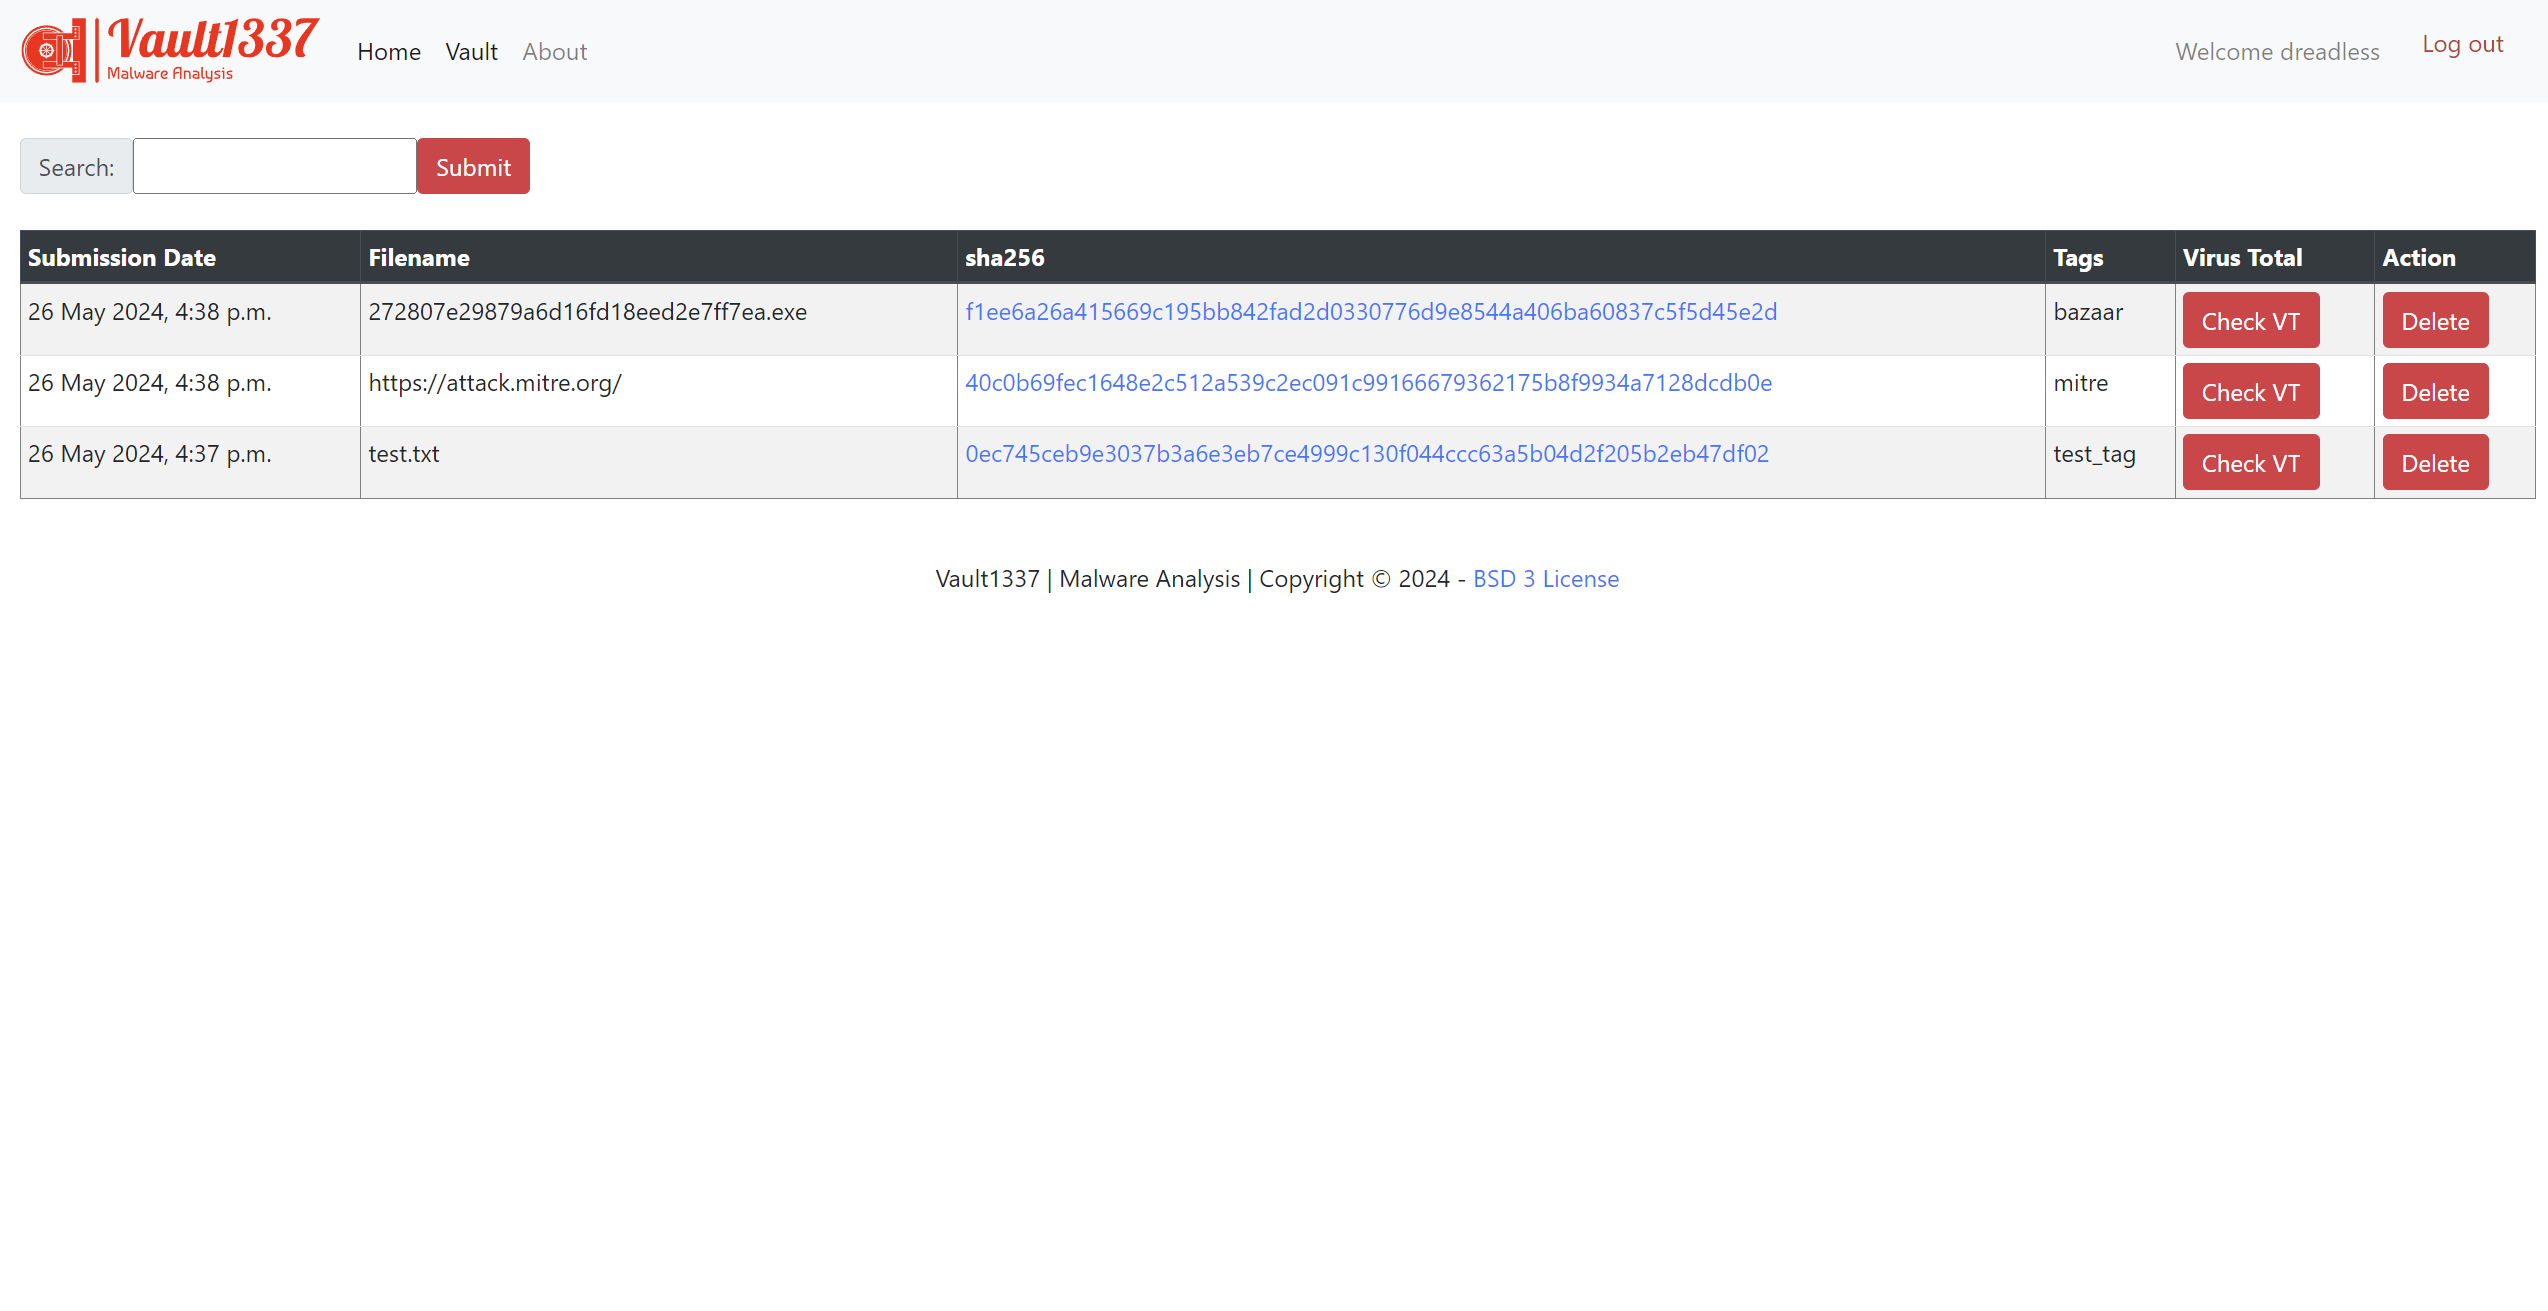
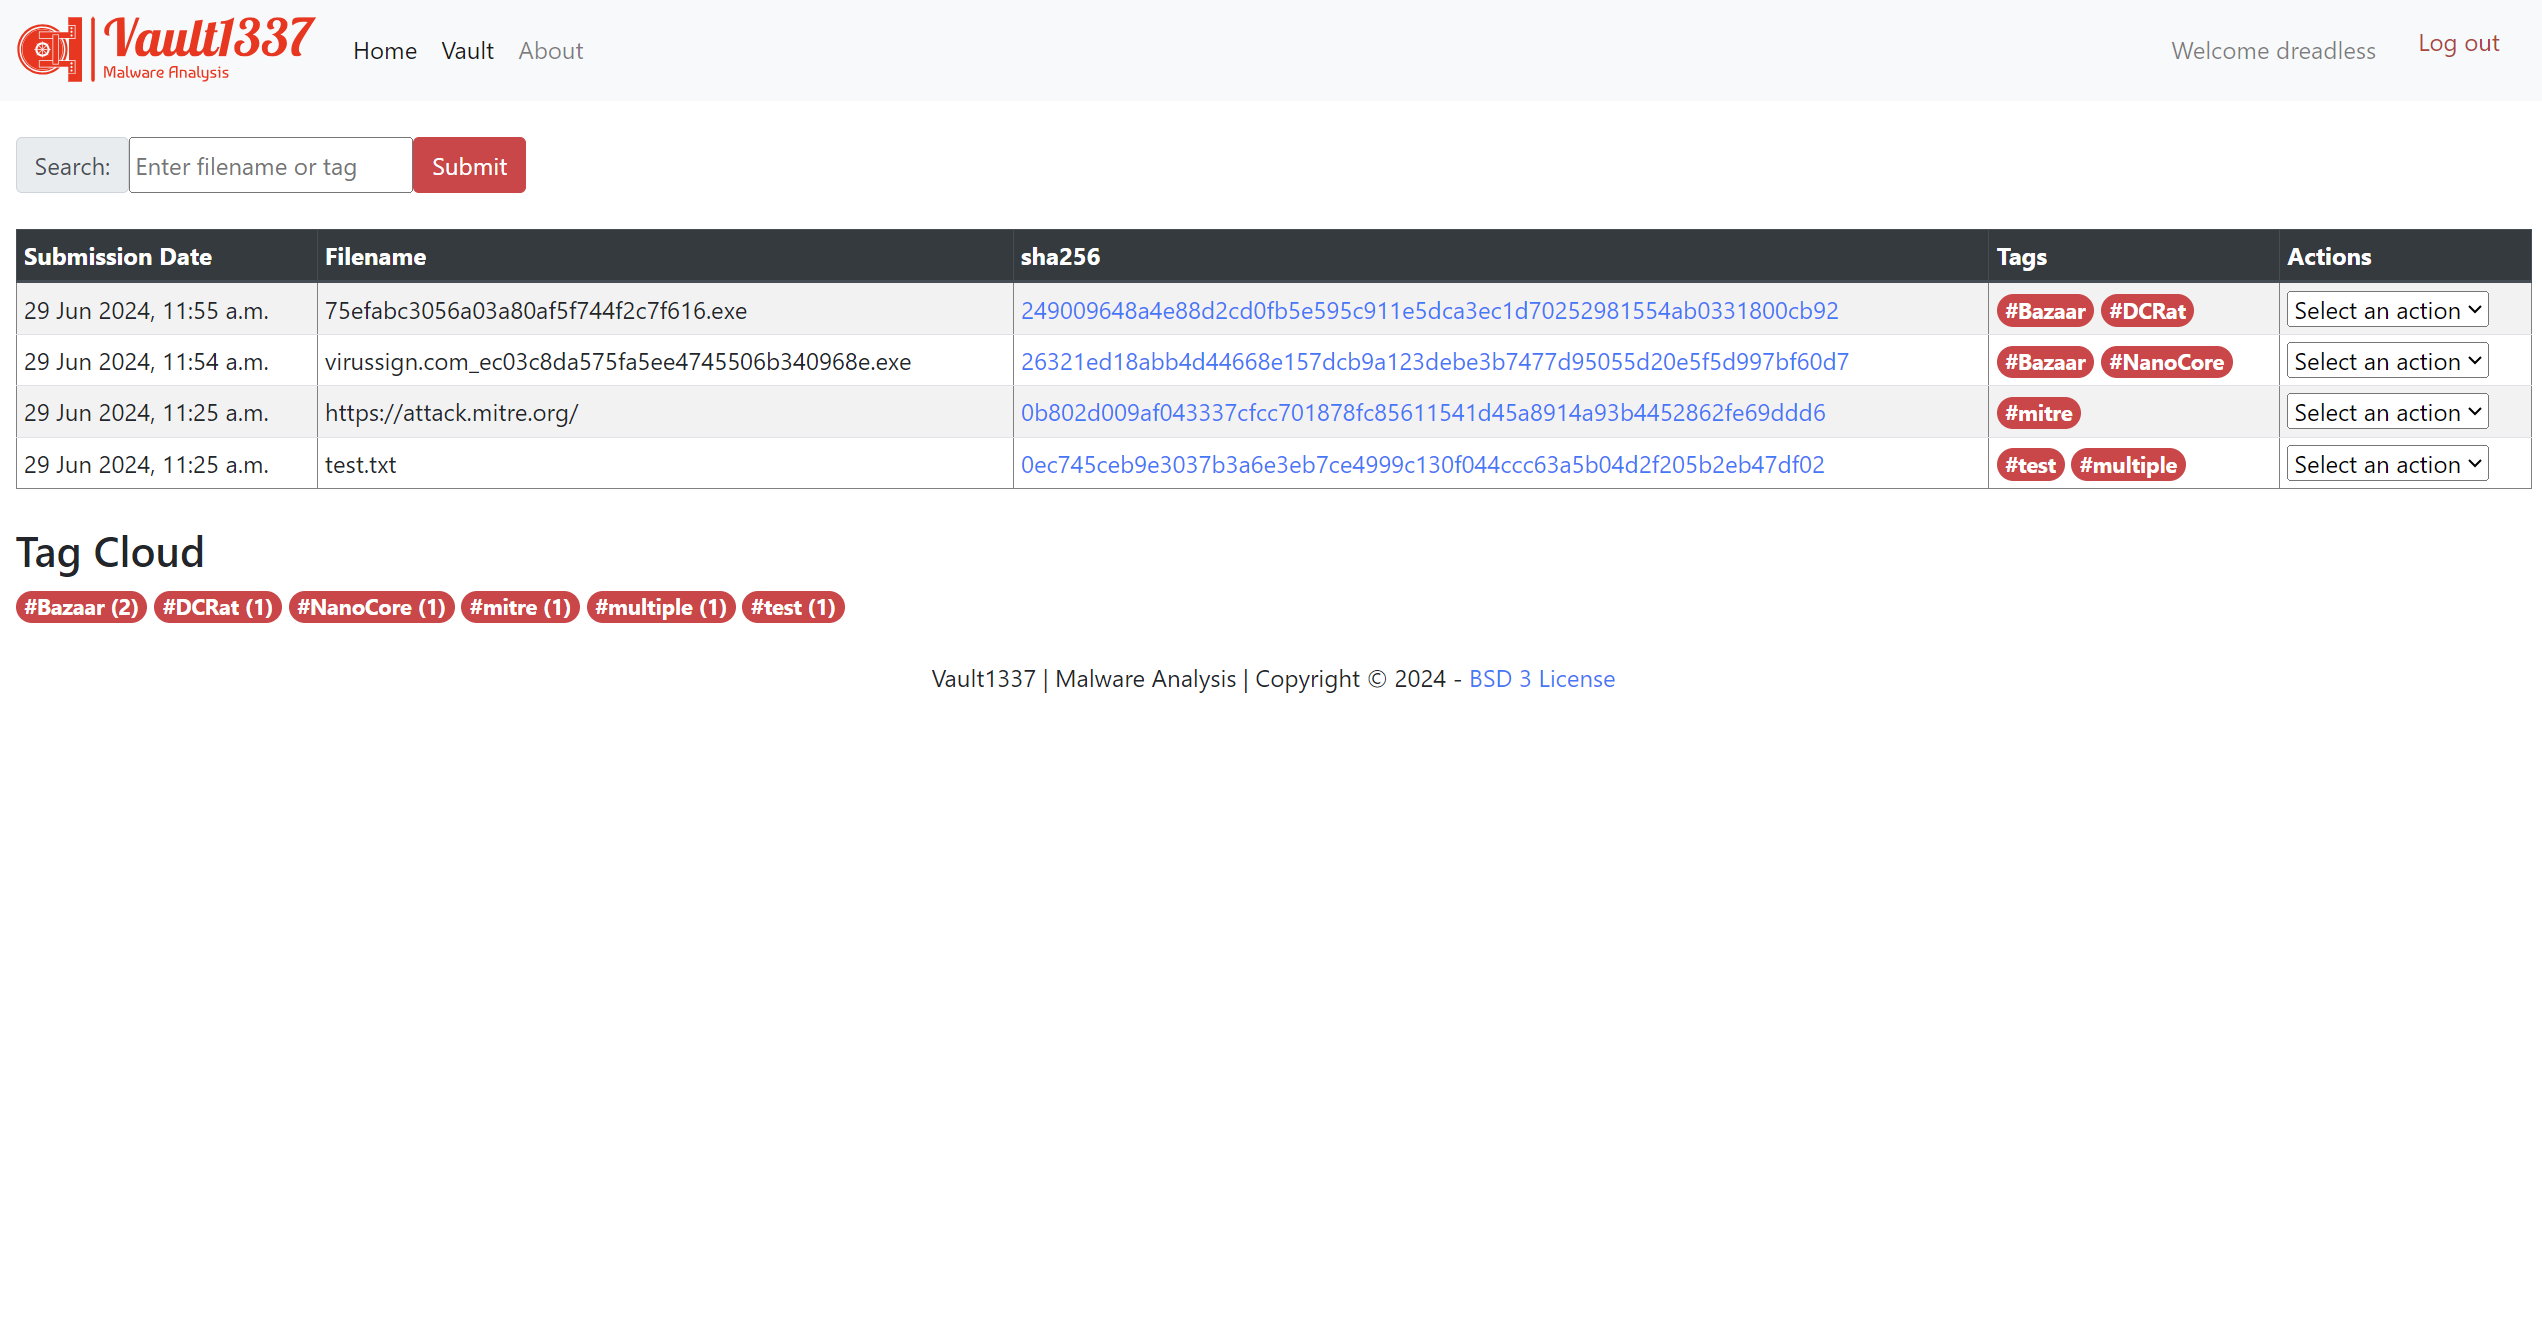
update readme and screenshots

diff --git a/README.md b/README.md
@@ -13,15 +13,14 @@ Documentation is a work in progress but can be found at [Vault1337.com](https://
 ## TODO
 
 - [ ] Learn Django (ongoing)
-- [ ] Create documentation
+- [ ] Create documentation (ongoign)
 - [ ] Investigate potential security issues (ongoing)
 - [ ] Move URL function to workbench
 - [ ] Import sample from Virus Total - requires premium account (sad face)
-- [ ] Create "Actions" dropdown in vault table
+- [ ] Limit the number of visible rows in the Vault table adding page numbers
 - [ ] Add yara functionality
 - [ ] Dark mode?
 - [ ] Generate FUZZY hashes for samples
-- [ ] Get tags working properly so they are searchable
 - [ ] Tidy up code it is a bit of a mess
 - [ ] create tabels for tags, notes and IOCs and make them relational
 - [ ] Add check for the existence of the "samples" folder and create if not there
@@ -53,6 +52,9 @@ Documentation is a work in progress but can be found at [Vault1337.com](https://
 
 ##  Completed
 
+- [x] Add tags cloud under vault table that are clickable for filtering
+- [x] Create "Actions" dropdown in vault table
+- [x] Get tags working properly so they are searchable (Django-Taggit)
 - [x] Create initial database
 - [x] Create user registration form
 - [x] Create initial templates
@@ -151,6 +153,8 @@ python manage.py shell
 ![Vault1337 logo](/vault/static/images/screenshots/Home_Screen_loggedIn.png "Home Screen Logged In")
 
 ![Vault1337 logo](/vault/static/images/screenshots/Vault.png "Vault")
+
+![Vault1337 logo](/vault/static/images/screenshots/Vault_Actions.png "Vault")
 
 ![Vault1337 logo](/vault/static/images/screenshots/Sample_View.png "Sample View")
 
